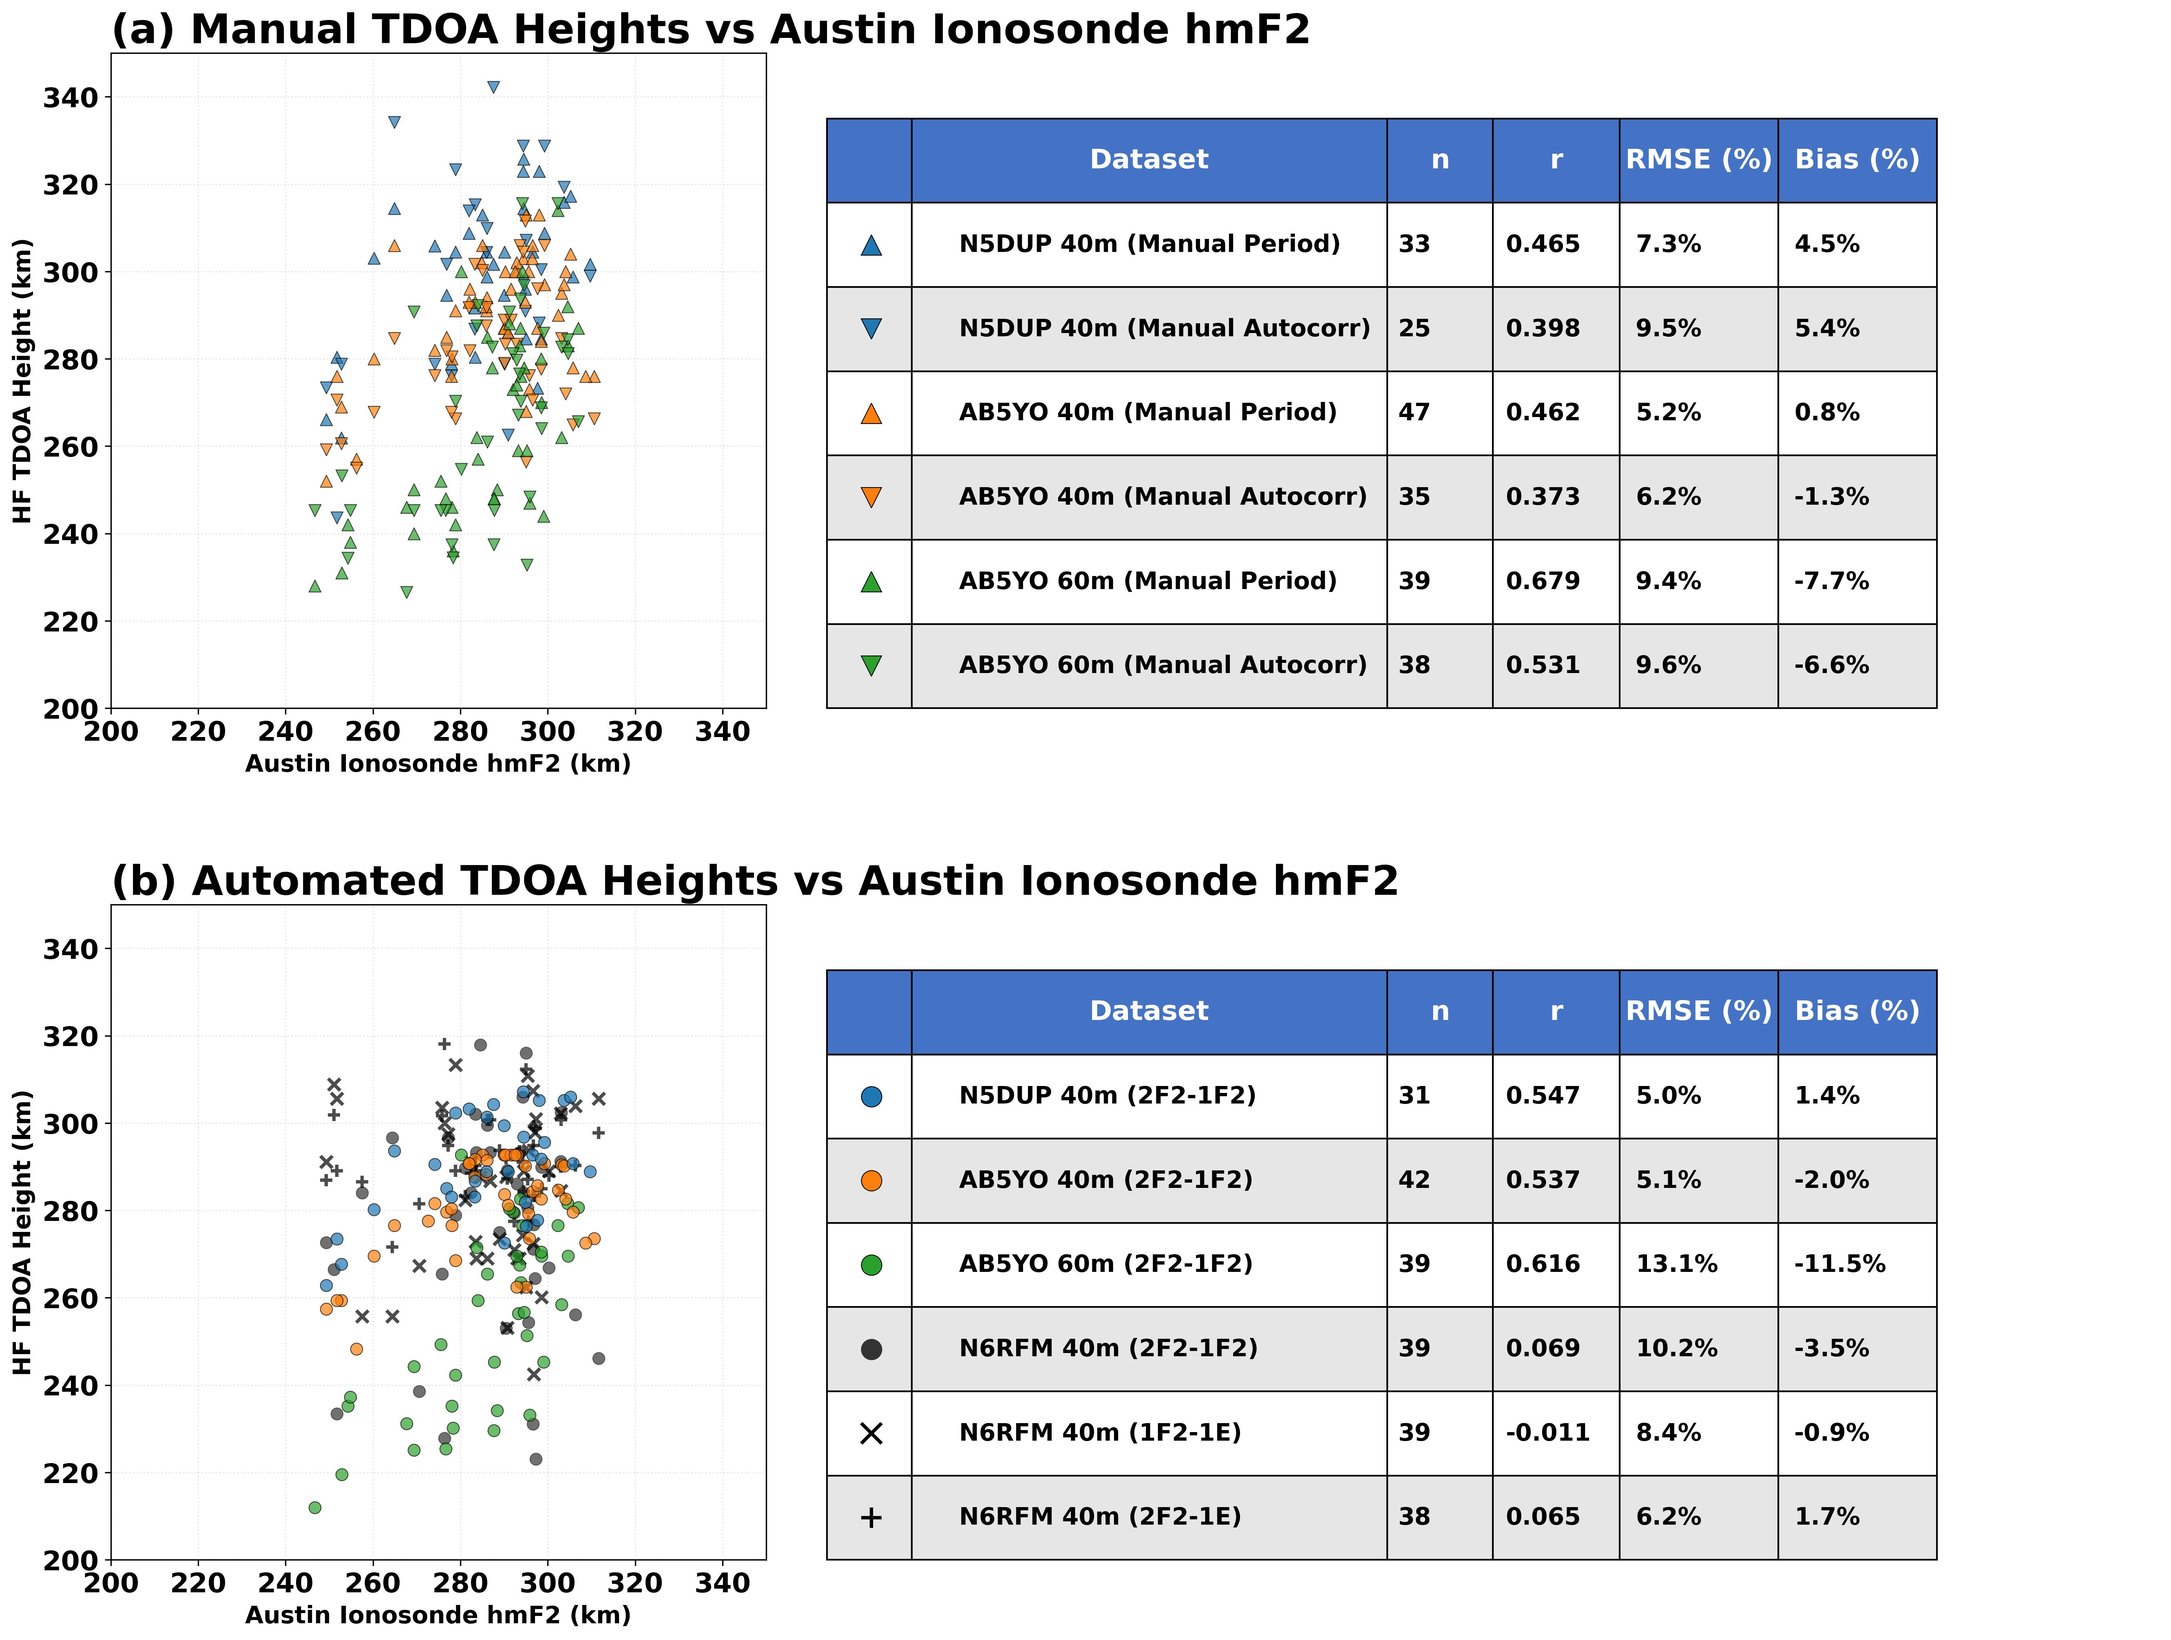
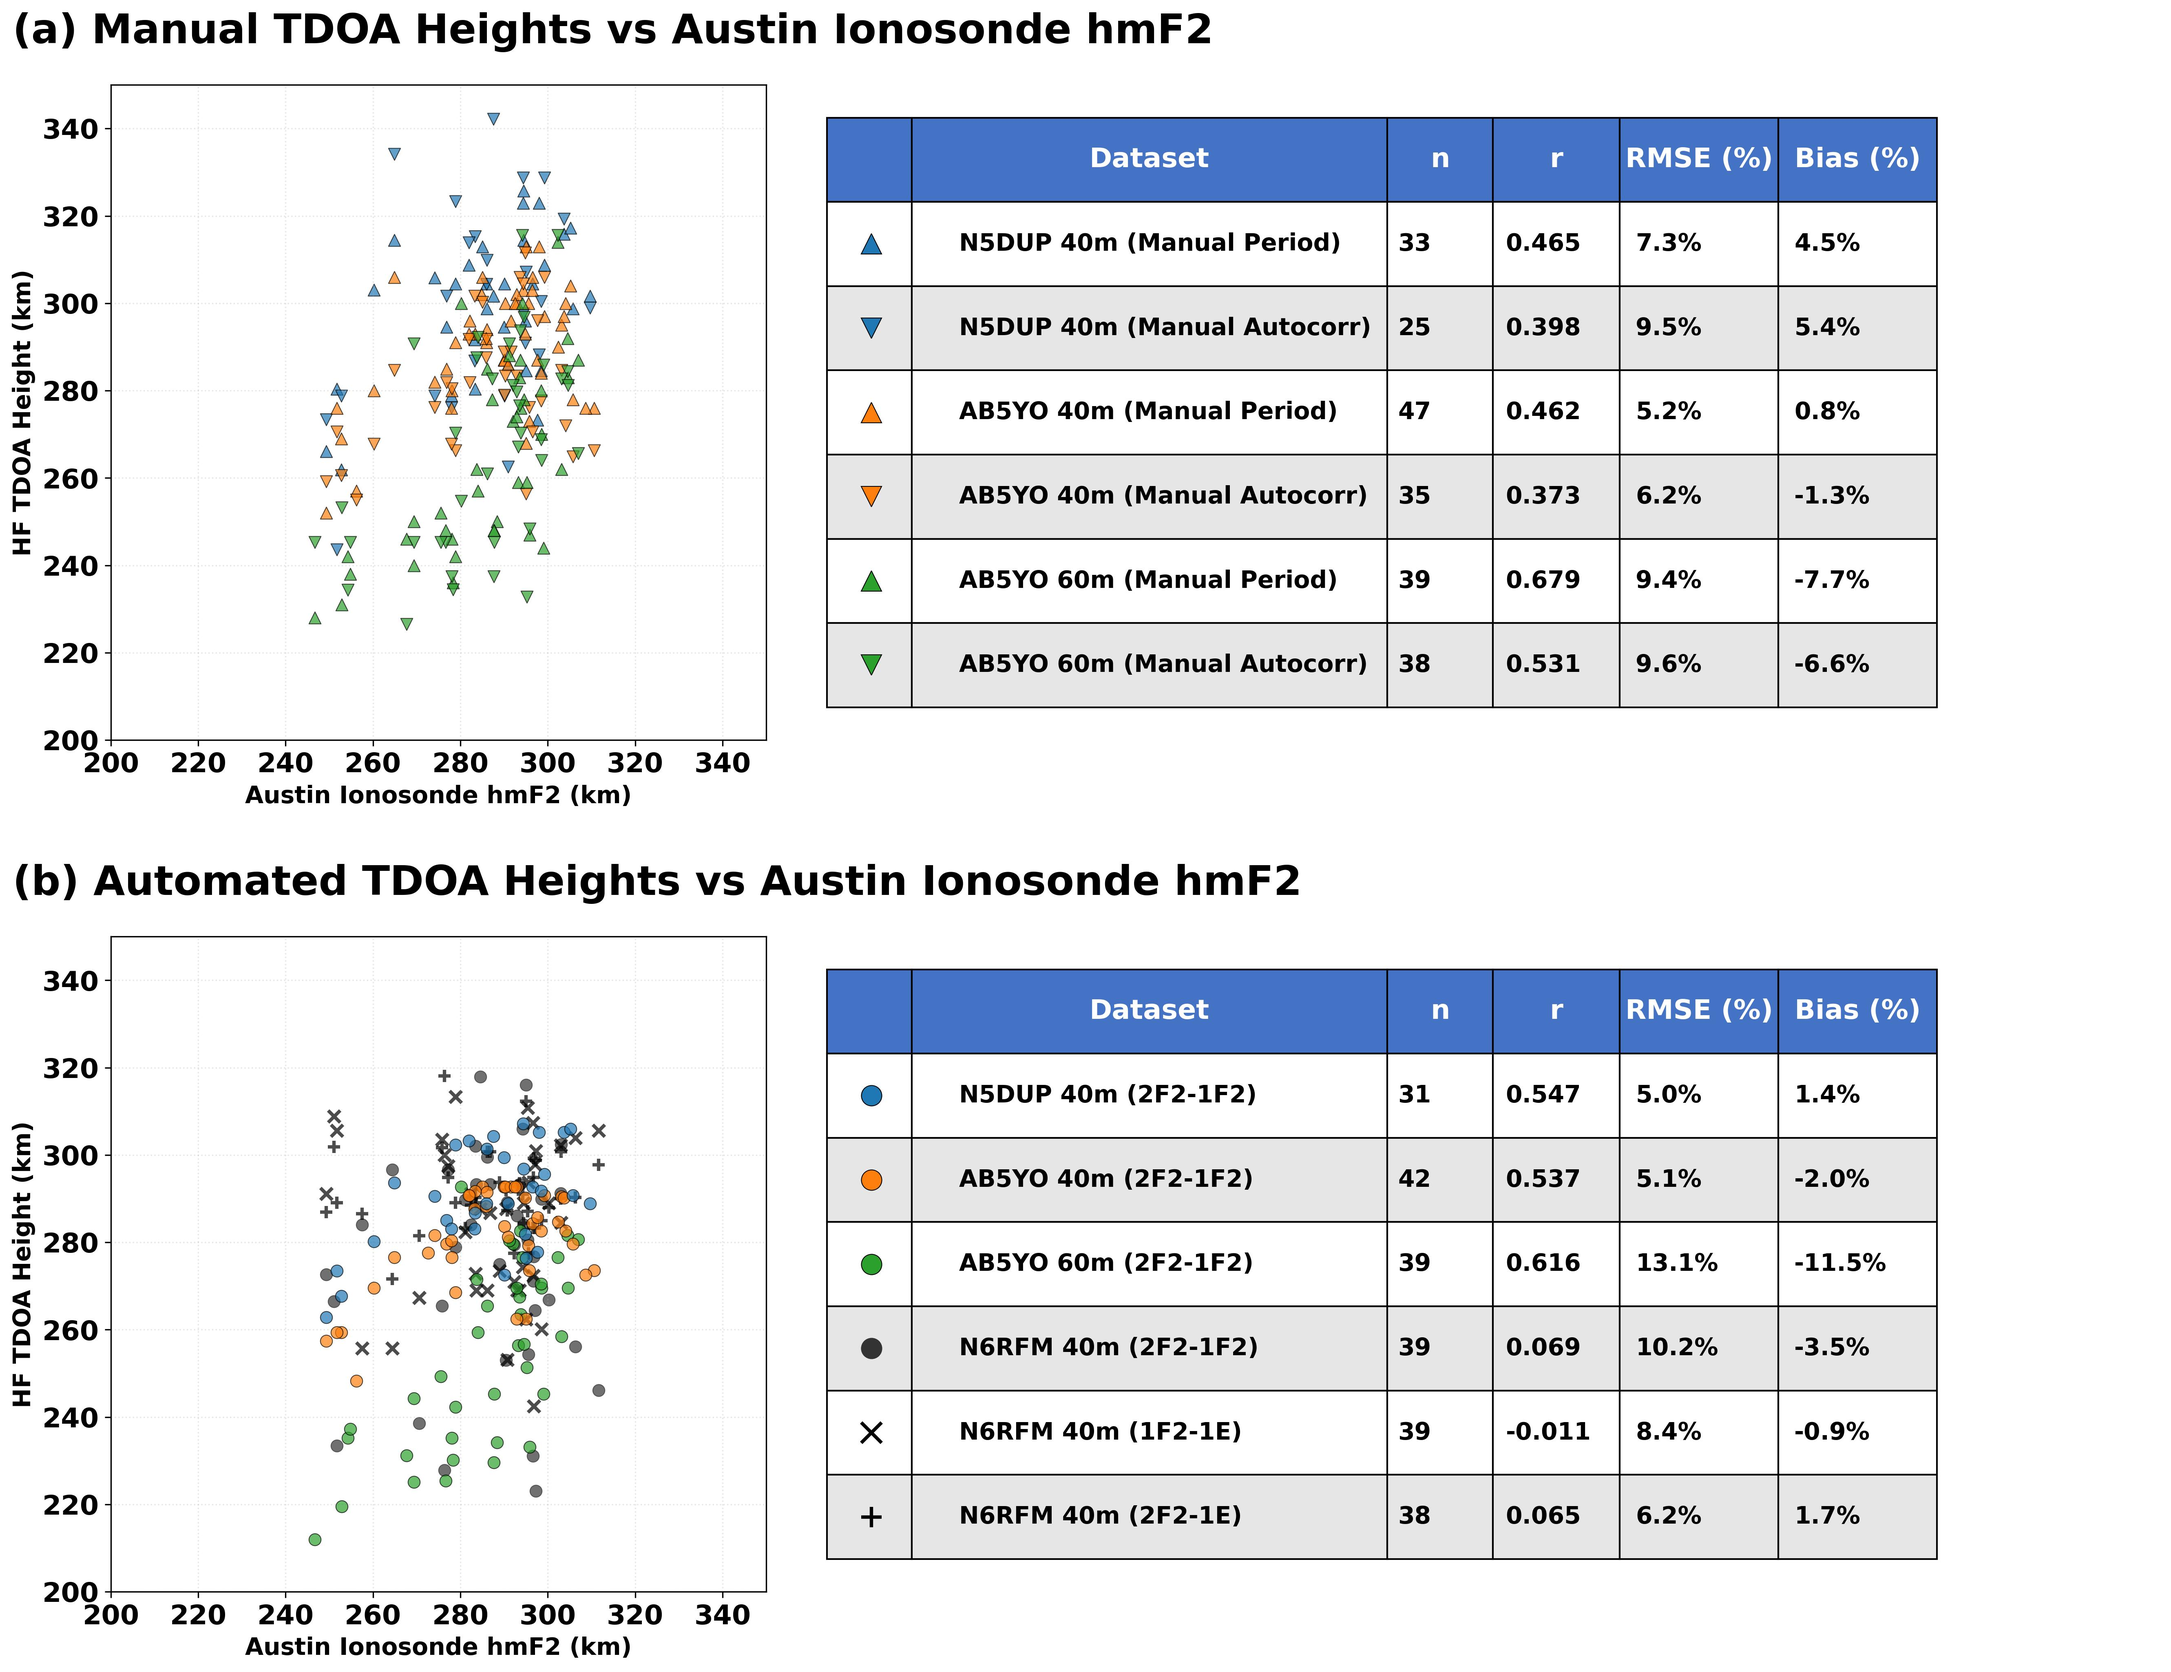
it's looking better

diff --git a/hf_tdoa/hf_tdoa_lib.py b/hf_tdoa/hf_tdoa_lib.py
@@ -2985,8 +2985,10 @@ def create_manual_vs_automated_scatter_figure(manual_datasets, automated_dataset
     # Style manual scatter plot
     ax_manual_scatter.set_xlabel('Austin Ionosonde hmF2 (km)', fontweight='bold', fontsize=14)
     ax_manual_scatter.set_ylabel('HF TDOA Height (km)', fontweight='bold', fontsize=14)
-    ax_manual_scatter.set_title('(a) Manual TDOA Heights vs Austin Ionosonde hmF2',
-                                fontweight='bold', fontsize=24, loc='left')
+    # Use text instead of set_title for better positioning control
+    ax_manual_scatter.text(-0.15, 1.05, '(a) Manual TDOA Heights vs Austin Ionosonde hmF2',
+                          transform=ax_manual_scatter.transAxes,
+                          fontweight='bold', fontsize=24, va='bottom', ha='left')
     # ax_manual_scatter.legend(loc='upper right', fontsize='small')  # Legend removed
     ax_manual_scatter.grid(True, alpha=0.3)
     ax_manual_scatter.set_xlim(200, 350)
@@ -3020,7 +3022,7 @@ def create_manual_vs_automated_scatter_figure(manual_datasets, automated_dataset
         colLabels=['', 'Dataset', 'n', 'r', 'RMSE (%)', 'Bias (%)'],
         cellLoc='left',
         loc='upper left',
-        bbox=[-0.2, 0, 1.0, 0.9]
+        bbox=[-0.2, 0.05, 1.0, 0.9]
     )
 
     # Style manual table
@@ -3054,9 +3056,10 @@ def create_manual_vs_automated_scatter_figure(manual_datasets, automated_dataset
     # Add symbols to manual table
     num_rows_manual = len(manual_datasets) + 1
     row_height_manual = 0.9 / num_rows_manual
+    table_bottom = 0.05  # Match the bbox bottom position
     for idx, dataset in enumerate(manual_datasets):
         row_idx = idx + 1
-        y_pos = 0.9 - (row_idx + 0.5) * row_height_manual
+        y_pos = (table_bottom + 0.9) - (row_idx + 0.5) * row_height_manual
         x_pos = -0.16  # Adjusted for shifted table (was 0.04)
 
         # Use linewidths for line-based markers if specified
@@ -3106,8 +3109,10 @@ def create_manual_vs_automated_scatter_figure(manual_datasets, automated_dataset
     # Style automated scatter plot
     ax_auto_scatter.set_xlabel('Austin Ionosonde hmF2 (km)', fontweight='bold', fontsize=14)
     ax_auto_scatter.set_ylabel('HF TDOA Height (km)', fontweight='bold', fontsize=14)
-    ax_auto_scatter.set_title('(b) Automated TDOA Heights vs Austin Ionosonde hmF2',
-                              fontweight='bold', fontsize=24, loc='left')
+    # Use text instead of set_title for better positioning control
+    ax_auto_scatter.text(-0.15, 1.05, '(b) Automated TDOA Heights vs Austin Ionosonde hmF2',
+                        transform=ax_auto_scatter.transAxes,
+                        fontweight='bold', fontsize=24, va='bottom', ha='left')
     # ax_auto_scatter.legend(loc='upper right', fontsize='small')  # Legend removed
     ax_auto_scatter.grid(True, alpha=0.3)
     ax_auto_scatter.set_xlim(200, 350)
@@ -3141,7 +3146,7 @@ def create_manual_vs_automated_scatter_figure(manual_datasets, automated_dataset
         colLabels=['', 'Dataset', 'n', 'r', 'RMSE (%)', 'Bias (%)'],
         cellLoc='left',
         loc='upper left',
-        bbox=[-0.2, 0, 1.0, 0.9]
+        bbox=[-0.2, 0.05, 1.0, 0.9]
     )
 
     # Style automated table
@@ -3174,9 +3179,10 @@ def create_manual_vs_automated_scatter_figure(manual_datasets, automated_dataset
     # Add symbols to automated table
     num_rows_auto = len(automated_datasets) + 1
     row_height_auto = 0.9 / num_rows_auto
+    table_bottom = 0.05  # Match the bbox bottom position
     for idx, dataset in enumerate(automated_datasets):
         row_idx = idx + 1
-        y_pos = 0.9 - (row_idx + 0.5) * row_height_auto
+        y_pos = (table_bottom + 0.9) - (row_idx + 0.5) * row_height_auto
         x_pos = -0.16  # Adjusted for shifted table (was 0.04)
 
         # Use linewidths for line-based markers if specified
